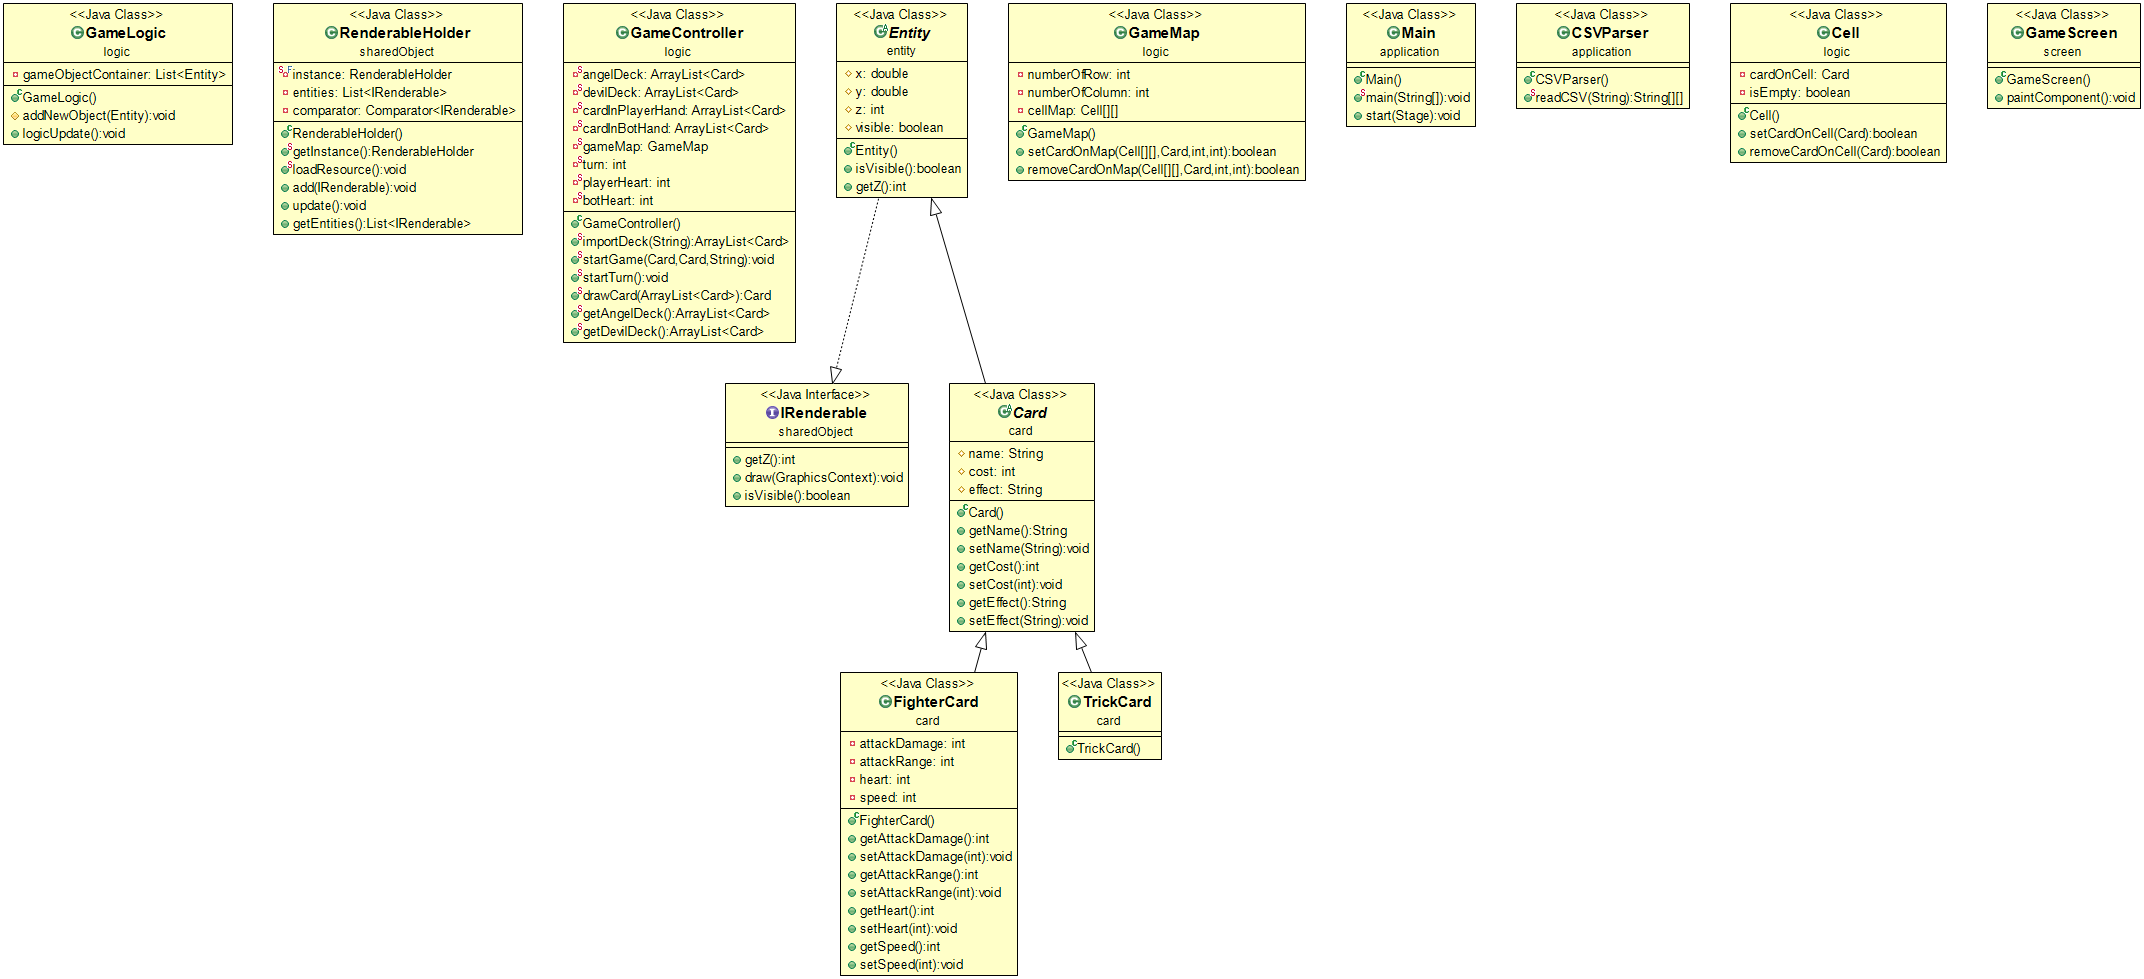
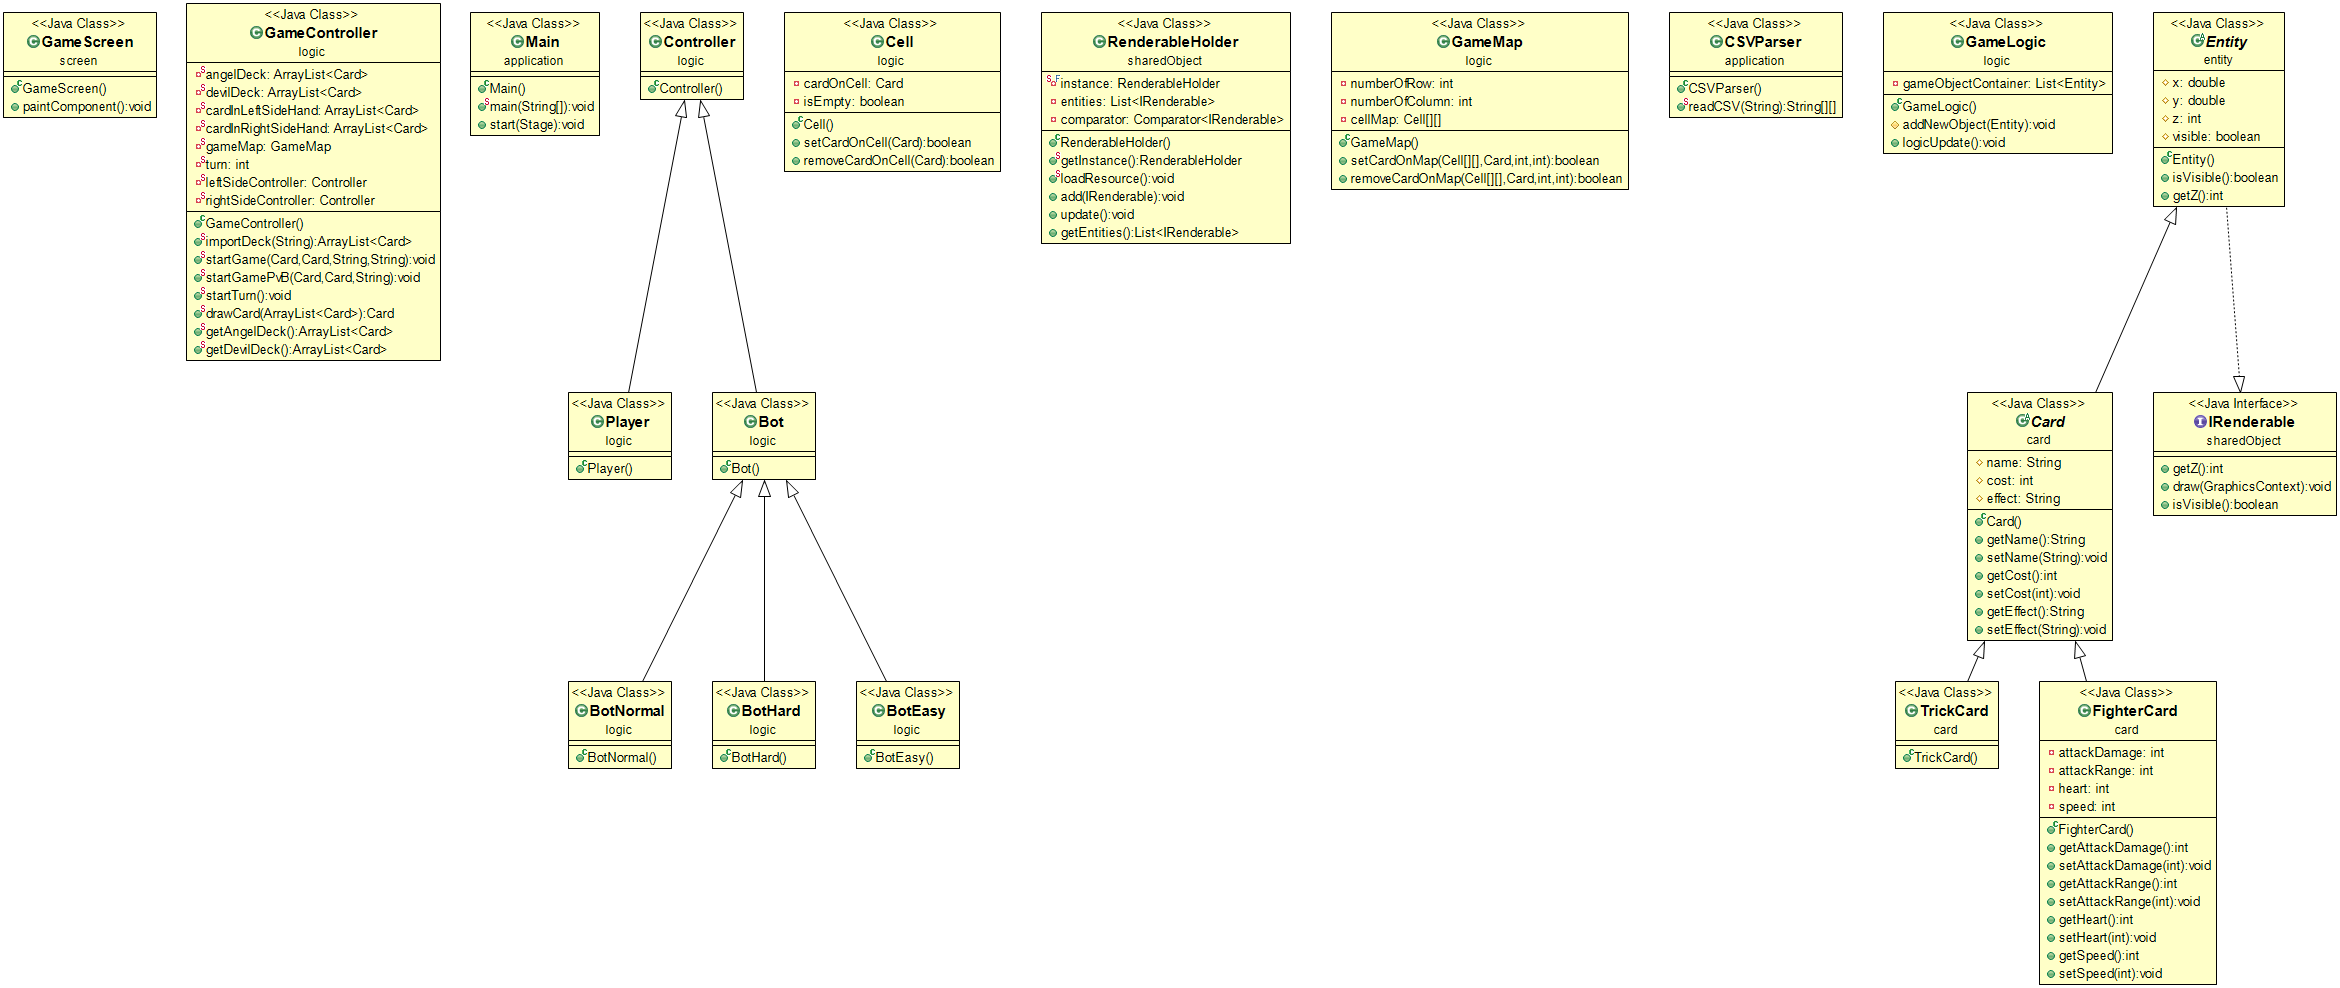
Update GameController.java

Changed region(s): [[0.0, 0.0, 1.0, 1.0], [0.8125, 0.3677, 1.0, 1.0]]

diff --git a/src/logic/GameController.java b/src/logic/GameController.java
@@ -10,13 +10,13 @@ import card.TrickCard;
 public class GameController {
 	private static ArrayList<Card> angelDeck;
 	private static ArrayList<Card> devilDeck;
-	private static ArrayList<Card> cardInPlayerHand;
-	private static ArrayList<Card> cardInBotHand;
+	private static ArrayList<Card> cardInLeftSideHand;
+	private static ArrayList<Card> cardInRightSideHand;
 	private static GameMap gameMap;
 	private static int turn;
-	private static int playerHeart;
-	private static int botHeart;
-	
+	private static Controller leftSideController;
+	private static Controller rightSideController;
+
 	static {
 		angelDeck = importDeck("AngelDeck.csv");
 		devilDeck = importDeck("DevilDeck.csv");
@@ -27,7 +27,7 @@ public class GameController {
 		String[][] deckData = CSVParser.readCSV(filename);
 
 		for (int i = 2; i < deckData.length; i++) { // each row = each card
-			
+
 			if (deckData[i][0].equals("Fighter")) {
 				FighterCard card = new FighterCard();
 				card.setName(deckData[i][1]);
@@ -49,36 +49,45 @@ public class GameController {
 		}
 		return deck;
 	}
-	
-	public static void startGame(Card playerCard, Card botCard, String gameMode) {
-		switch(gameMode) {
+
+	public static void startGame(Card playerCard, Card botCard, String botMode, String gameMode) {
+		switch (gameMode) {
+		case "PvB":
+			startGamePvB(playerCard, botCard, botMode);
+		case "PvP":
+			//WIP
+		case "BvB":	
+			//WIP
+		}
+	}
+
+	public static void startGamePvB(Card playerCard, Card botCard, String botMode) {
+		leftSideController = new Player();
+		switch (botMode) {
 		case "Easy":
-			playerHeart = 30;
-			botHeart = 20;
+			rightSideController = new BotEasy();
 		case "Normal":
-			playerHeart = 20;
-			botHeart = 20;
-		case "Hard" :
-			playerHeart = 20;
-			botHeart = 30;
+			rightSideController = new BotNormal();
+		case "Hard":
+			rightSideController = new BotHard();
 		}
 		gameMap = new GameMap();
 		turn = 0;
-		//cardInPlayerHand = random 4 card
-		//cardInBotHand = random 4 card
-		//while game not end
+		// cardInPlayerHand = random 4 card
+		// cardInBotHand = random 4 card
+		// while game not end
 		startTurn();
-		
+
 	}
+
 	public static void startTurn() {
 		turn++;
-		//TODO
+		// TODO
 	}
-	
+
 	public static Card drawCard(ArrayList<Card> deck) {
-		
+
 	}
-	
 
 	public static ArrayList<Card> getAngelDeck() {
 		return angelDeck;
